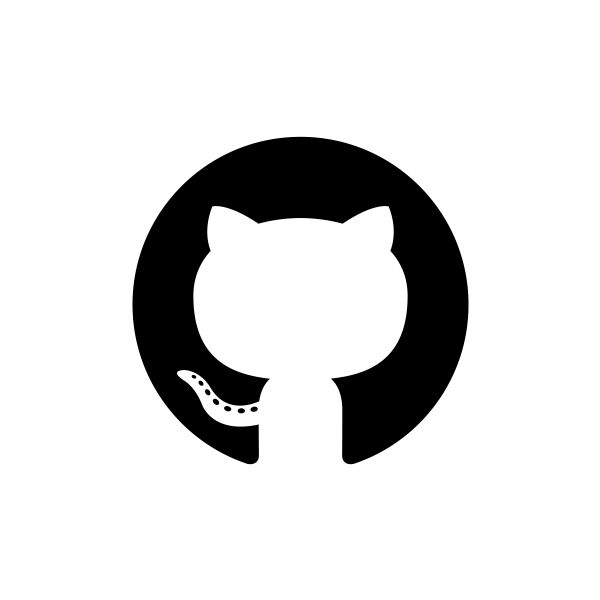
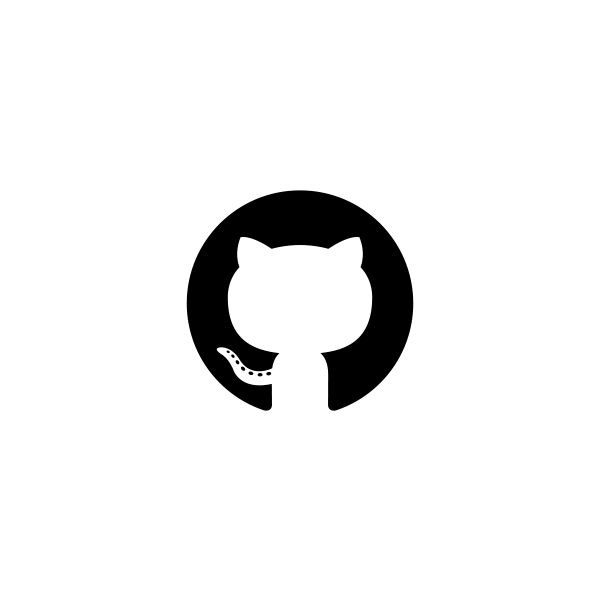
Reduce size of tile images, reduce depth effect on mouse hover over a tile

Changed region(s): [[0.21, 0.21, 0.78, 0.78]]

diff --git a/app/styles/tiles.scss b/app/styles/tiles.scss
@@ -49,8 +49,8 @@ $tile-unit: 14px;
     }
 
     &:hover {
-        -ms-transform: perspective(250px) translateZ(-10px);
-        transform: perspective(250px) translateZ(-10px);
+        -ms-transform: perspective(250px) translateZ(-6px);
+        transform: perspective(250px) translateZ(-6px);
     }
 
     &:active {
